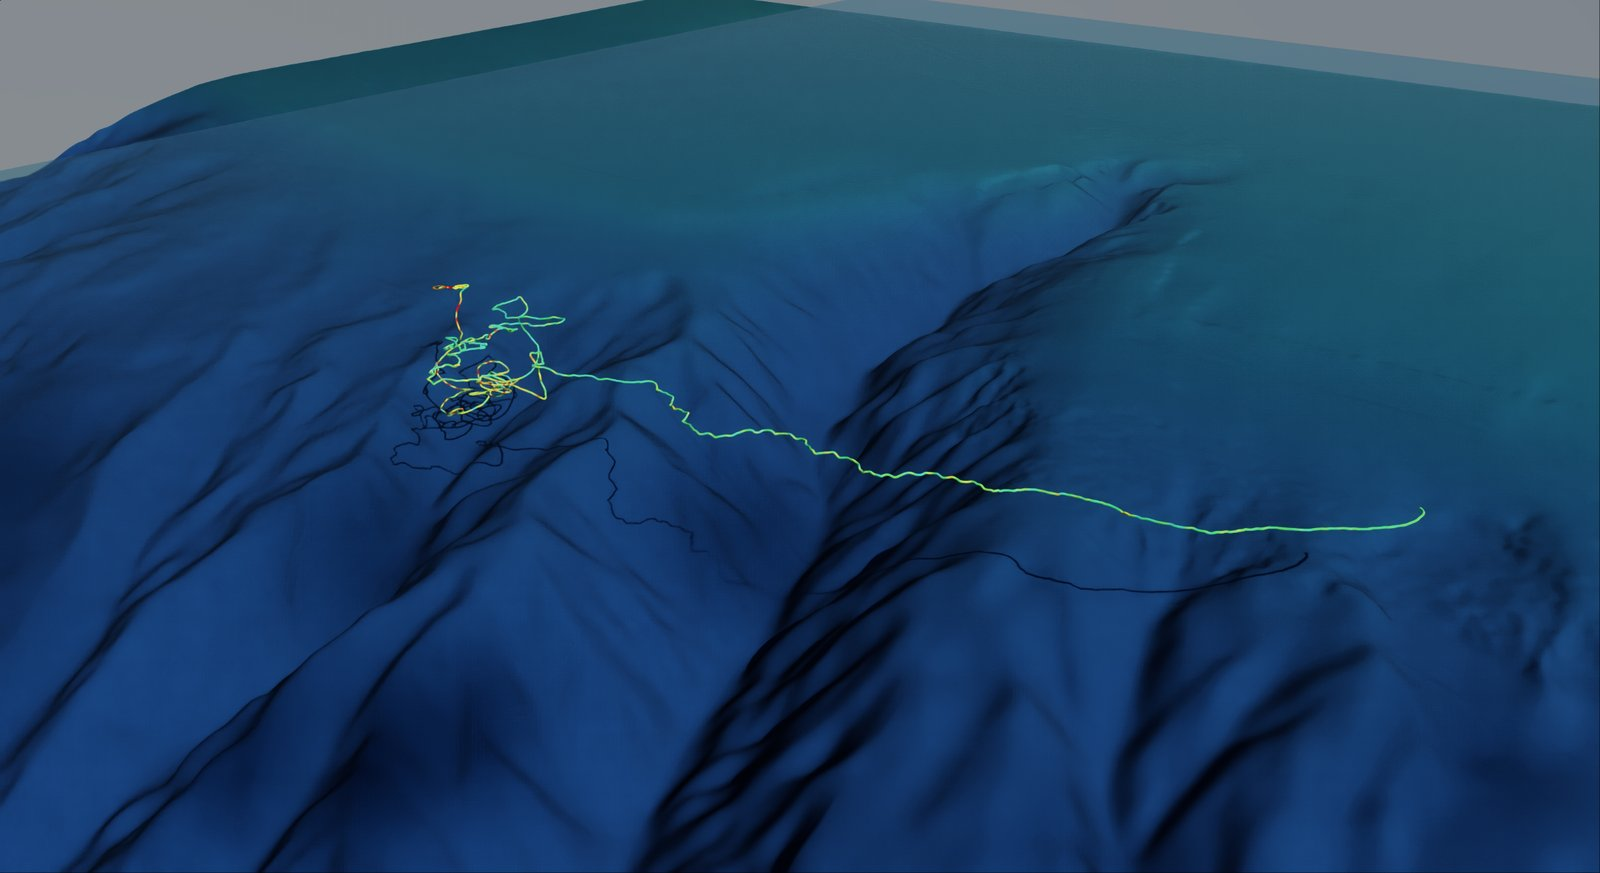
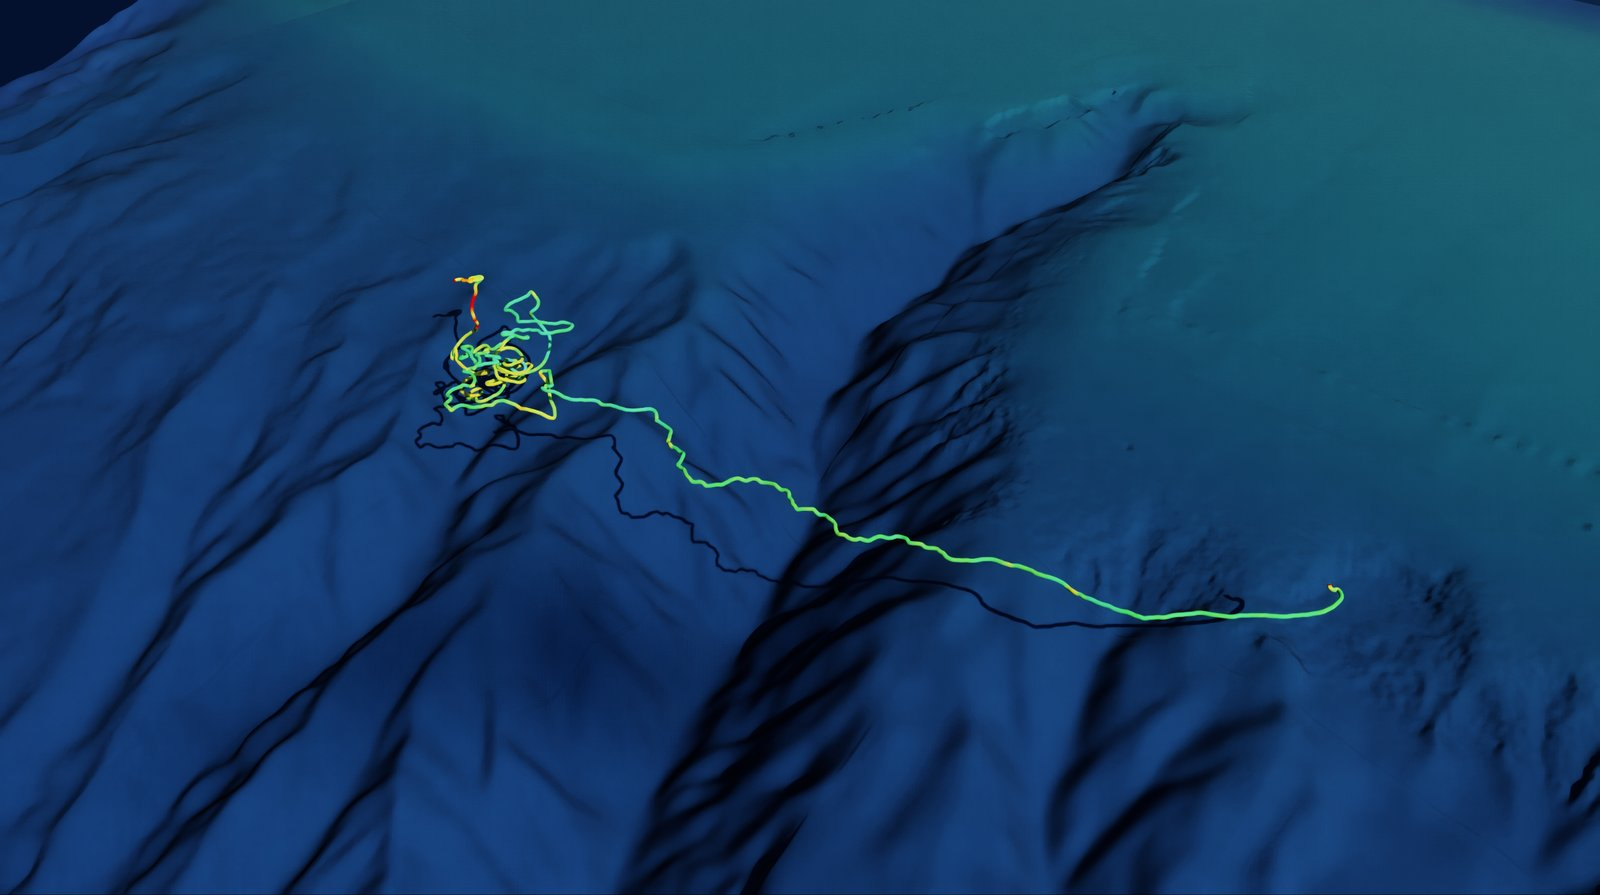
fix(viz): fade the DEM edge and the lower sky into deep water
Overviews showed the seafloor stopping on a hard edge with a grey band beyond:
past the data, the view through the sea reached the sky dome's lower half,
which was held at the horizon's value. Make that half the deep-water colour
(look/belowHorizonGain) and fade the fused grid's colour into the same colour
over its outer 3 km, so the seafloor runs into deep open water. Retake the
README overview with the new trail, framed clear of the water volume's edge.

Collaborated with Claude Code (Opus 5.5).

diff --git a/omniverse/extensions/whoimpg.biologger.subscriber/whoimpg/biologger/subscriber/dem_tiles.py b/omniverse/extensions/whoimpg.biologger.subscriber/whoimpg/biologger/subscriber/dem_tiles.py
@@ -173,6 +173,36 @@ HILLSHADE_EXAGGERATION = 3.0  # vertical exaggeration for shading only (geometry
 IN_SITU = False
 
 
+# Edge fade: the fused grid's colour blends into the deep-water colour over its outer
+# EDGE_FADE_M, so overviews do not show the seafloor stopping on a hard line where the data
+# ends. Set from the grid by ``set_edge_extent``; streamed tiles leave it unset (no fade).
+EDGE_FADE_M = 3000.0
+_EDGE_EXTENT: tuple[float, float, float, float] | None = None  # min/max north, min/max east
+
+
+def set_edge_extent(extent: tuple[float, float, float, float] | None) -> None:
+    """Sets the (min north, max north, min east, max east) metres the edge fade measures from."""
+    global _EDGE_EXTENT
+    _EDGE_EXTENT = extent
+
+
+def edge_fade(north: np.ndarray, east: np.ndarray) -> np.ndarray:
+    """Weight in [0, 1] of the deep-water colour: 1 at the grid's edge, 0 from EDGE_FADE_M in."""
+    north, east = np.asarray(north, dtype=float), np.asarray(east, dtype=float)
+    if _EDGE_EXTENT is None:
+        return np.zeros(np.broadcast(north, east).shape)
+    n0, n1, e0, e1 = _EDGE_EXTENT
+    inside = np.minimum(np.minimum(north - n0, n1 - north), np.minimum(east - e0, e1 - east))
+    t = np.clip(1.0 - inside / EDGE_FADE_M, 0.0, 1.0)
+    return np.asarray(t * t * (3.0 - 2.0 * t))  # smoothstep
+
+
+def fade_to_water(rgb: np.ndarray, fade: np.ndarray) -> np.ndarray:
+    """Blends colours (..., 3) towards the deep-water colour by ``fade`` (...)."""
+    f = np.asarray(fade, dtype=float)[..., None]
+    return np.asarray(rgb * (1.0 - f) + WATER_RGB * f)
+
+
 def set_sun(elevation_deg: float, azimuth_deg: float) -> None:
     """Bakes later meshes' hillshade from this sun (degrees, azimuth clockwise from north)."""
     global HILLSHADE_ALTITUDE_DEG, HILLSHADE_AZIMUTH_DEG
@@ -367,7 +397,7 @@ def grid_mesh_arrays(
     surface_rgb = depth_colors(elev) * (
         (1.0 - HILLSHADE_WEIGHT) + HILLSHADE_WEIGHT * shade[..., None]
     )
-    surface_rgb = surface_rgb.reshape(-1, 3)
+    surface_rgb = fade_to_water(surface_rgb, edge_fade(north, east)).reshape(-1, 3)
 
     # Quads (row r is north of row r + 1); counter-clockwise seen from above (+Y).
     r, c = np.meshgrid(np.arange(rows - 1), np.arange(cols - 1), indexing="ij")
@@ -529,9 +559,11 @@ def recolour_dem_meshes(stage: Any, root: str = DEM_ROOT) -> int:
         normals = mesh.GetNormalsAttr().Get()
         if not points or not normals or len(points) != len(normals):
             continue
-        elev = np.asarray(points, dtype=float)[:, 1] / SCENE_SCALE
+        pts = np.asarray(points, dtype=float) / SCENE_SCALE
+        elev = pts[:, 1]
         shade = normal_shade(np.asarray(normals, dtype=float))
         rgb = depth_colors(elev) * ((1.0 - HILLSHADE_WEIGHT) + HILLSHADE_WEIGHT * shade[:, None])
+        rgb = fade_to_water(rgb, edge_fade(-pts[:, 2], pts[:, 0]))  # north is -z, east is x
         UsdGeom.PrimvarsAPI(prim).CreatePrimvar(
             "displayColor", Sdf.ValueTypeNames.Color3fArray, UsdGeom.Tokens.vertex
         ).Set(Vt.Vec3fArray.FromNumpy(rgb.astype(np.float32)))
@@ -909,6 +941,12 @@ class DemGridSource:
         stage = self._get_stage()
         if stage is None:
             return
+        # The grid's outer edges in (north, east) metres, for the edge fade
+        lat, lon = mercator_to_latlon(xs[[0, -1, 0, -1]], ys[[0, 0, -1, -1]])
+        north_c, east_c = latlon_to_ne(lat, lon, self.origin)
+        set_edge_extent(
+            (float(north_c.min()), float(north_c.max()), float(east_c.min()), float(east_c.max()))
+        )
         for name, block, north, east in grid_blocks(elev, xs, ys, self.origin):
             write_dem_mesh(stage, self.root, name, *grid_mesh_arrays(block, north, east))
             self._blocks += 1

diff --git a/omniverse/extensions/whoimpg.biologger.subscriber/whoimpg/biologger/subscriber/scene_look.py b/omniverse/extensions/whoimpg.biologger.subscriber/whoimpg/biologger/subscriber/scene_look.py
@@ -49,6 +49,9 @@ DEEP_WATER_M = 150.0  # scene depth below which the surface is out of view (see 
 SKY_WIDTH = 1024
 HORIZON_WHITE = (0.86, 0.93, 1.0)  # white-balance target for the mean horizon (R, G, B ratio)
 SKY_MODEL_VERSION = 2  # part of the sky cache name: bump whenever sky_equirect's output changes
+# Lower sky hemisphere = deep-water colour times this (seen only through the sea, past the
+# DEM): about a Lambertian floor of that colour under the sun and sky, on the dome's scale
+BELOW_HORIZON_GAIN = 6.0
 SCENE_SCALE = 100.0  # metres -> scene centimetres
 
 SUN_PATH = "/World/SunLight"
@@ -194,11 +197,17 @@ def sky_equirect(
     sun_az_deg: float,
     width: int = SKY_WIDTH,
     turbidity: float = DEFAULT_TURBIDITY,
+    below_gain: float | None = None,
 ) -> np.ndarray:
     """Latitude-longitude sky image (height, width, 3), row 0 at the zenith.
 
     Columns run in longitude phi from -180 to 180 degrees, the compass azimuth each column
     shows (0 north, 90 east; the image centre faces north). Normalised so the zenith is 1.
+
+    With ``below_gain``, the lower hemisphere is the deep-water colour times that gain
+    instead of the horizon's value. It is only seen through the sea surface, past the edge of
+    the DEM, where it then reads as deep open water; the gain matches it to the seafloor's
+    faded edge.
     """
     height = width // 2
     phi = (np.arange(width) + 0.5) / width * 2 * math.pi - math.pi
@@ -216,7 +225,10 @@ def sky_equirect(
     gains = np.asarray(HORIZON_WHITE) / np.maximum(horizon / max(float(horizon[2]), 1e-6), 1e-6)
     rgb = rgb * gains
     zenith = sky_radiance(np.array([0.0, 1.0, 0.0]), sun_el_deg, turbidity) * gains
-    return np.asarray(rgb / max(float(zenith.mean()), 1e-6), dtype=np.float32)
+    rgb = rgb / max(float(zenith.mean()), 1e-6)
+    if below_gain is not None:
+        rgb[height // 2 :] = np.asarray(WATER_RGB) * below_gain
+    return np.asarray(rgb, dtype=np.float32)
 
 
 def write_hdr(path: str, rgb: np.ndarray) -> None:
@@ -308,15 +320,16 @@ def apply_scene_look(
     yaw = float(look_setting("domeYawDeg", DOME_YAW_DEG))
     tilt = float(look_setting("domeTiltXDeg", DOME_TILT_X_DEG))
     flip_v = bool(look_setting("domeFlipV", DOME_FLIP_V))
+    below_gain = float(look_setting("belowHorizonGain", BELOW_HORIZON_GAIN))
 
     os.makedirs(cache_dir, exist_ok=True)
     sky_path = os.path.join(
         cache_dir,
         f"sky_v{SKY_MODEL_VERSION}_el{sun_el_lit:.1f}_az{sun_az:.1f}_t{turbidity:.1f}"
-        f"_f{int(flip_v)}.hdr",
+        f"_f{int(flip_v)}_b{below_gain:.2f}.hdr",
     )
     if not os.path.exists(sky_path):
-        img = sky_equirect(sun_el_lit, sun_az, turbidity=turbidity)
+        img = sky_equirect(sun_el_lit, sun_az, turbidity=turbidity, below_gain=below_gain)
         write_hdr(sky_path, img[::-1] if flip_v else img)
     dome = stage.GetPrimAtPath(DOME_PATH)
     if dome and dome.IsValid():

diff --git a/tests/unit/test_viz_geo.py b/tests/unit/test_viz_geo.py
@@ -449,3 +449,29 @@ class TestSeafloorDetail:
         idat_len = struct.unpack(">I", data[33:37])[0]
         raw = zlib.decompress(data[41 : 41 + idat_len])
         assert raw == b"\x00" + rgb[0].tobytes() + b"\x00" + rgb[1].tobytes()
+
+
+class TestEdgeFade:
+    def test_fade_is_full_at_the_edge_and_gone_inside(self) -> None:
+        try:
+            dem.set_edge_extent((-10000.0, 10000.0, -20000.0, 20000.0))
+            north = np.array([10000.0, 9000.0, 0.0, 0.0])
+            east = np.array([0.0, 0.0, 0.0, -20000.0 + dem.EDGE_FADE_M / 2])
+            fade = dem.edge_fade(north, east)
+            assert fade[0] == pytest.approx(1.0)  # on the edge
+            assert 0.0 < fade[1] < 1.0  # inside the fade band
+            assert fade[2] == pytest.approx(0.0)  # well inside
+            assert fade[3] == pytest.approx(0.5)  # halfway through the band (smoothstep)
+            rgb = dem.fade_to_water(np.array([[0.3, 0.3, 0.3]]), np.array([1.0]))
+            assert np.allclose(rgb[0], dem.WATER_RGB)
+        finally:
+            dem.set_edge_extent(None)
+        assert dem.edge_fade(np.array([0.0]), np.array([0.0]))[0] == 0.0  # tiles: no fade
+
+
+class TestSkyBelowHorizon:
+    def test_lower_hemisphere_is_deep_water_when_set(self) -> None:
+        plain = look.sky_equirect(40.0, 120.0, width=64)
+        sea = look.sky_equirect(40.0, 120.0, width=64, below_gain=6.0)
+        assert np.allclose(sea[:16], plain[:16])  # the sky above the horizon is unchanged
+        assert np.allclose(sea[16:], np.asarray(look.WATER_RGB) * 6.0)

diff --git a/docs/source/visualization/scene.rst b/docs/source/visualization/scene.rst
@@ -53,6 +53,11 @@ The seafloor is a fused digital elevation model (DEM) from the ``topobathykit`` 
 The HUD's **Stream DEM Tiles (georeferenced)** box (the ``demStreaming`` setting) turns the
 seafloor on and off for either source.
 
+The fused grid's colour fades into the deep-water colour over its outer 3 km, and the sky
+dome's lower half is the deep-water colour (``look/belowHorizonGain``), which is what shows
+through the sea past the edge of the data. Overviews then read as seafloor running into deep
+open water rather than a block with hard edges.
+
 The seafloor's colour is wet sediment (shelf sand to slope mud) seen through the water
 column. With depth it fades into the deep-water colour, using light attenuation for clear
 oceanic water (Jerlov type IB) with an exaggerated clarity so the shelf stays readable. A
@@ -162,6 +167,9 @@ at run time with ``POST /agent/settings`` followed by ``POST /agent/look``.
      - 40
      - Horizontal visibility below the surface, in metres. The renderer's distance fog
        changes little beyond a few hundred metres.
+   * - ``look/belowHorizonGain``
+     - 6
+     - Brightness of the deep-water colour in the sky's lower half, seen past the DEM.
    * - ``look/trailSmoothingS``
      - 2
      - Record seconds the trail's position and ODBA are averaged over (0: every sample).
